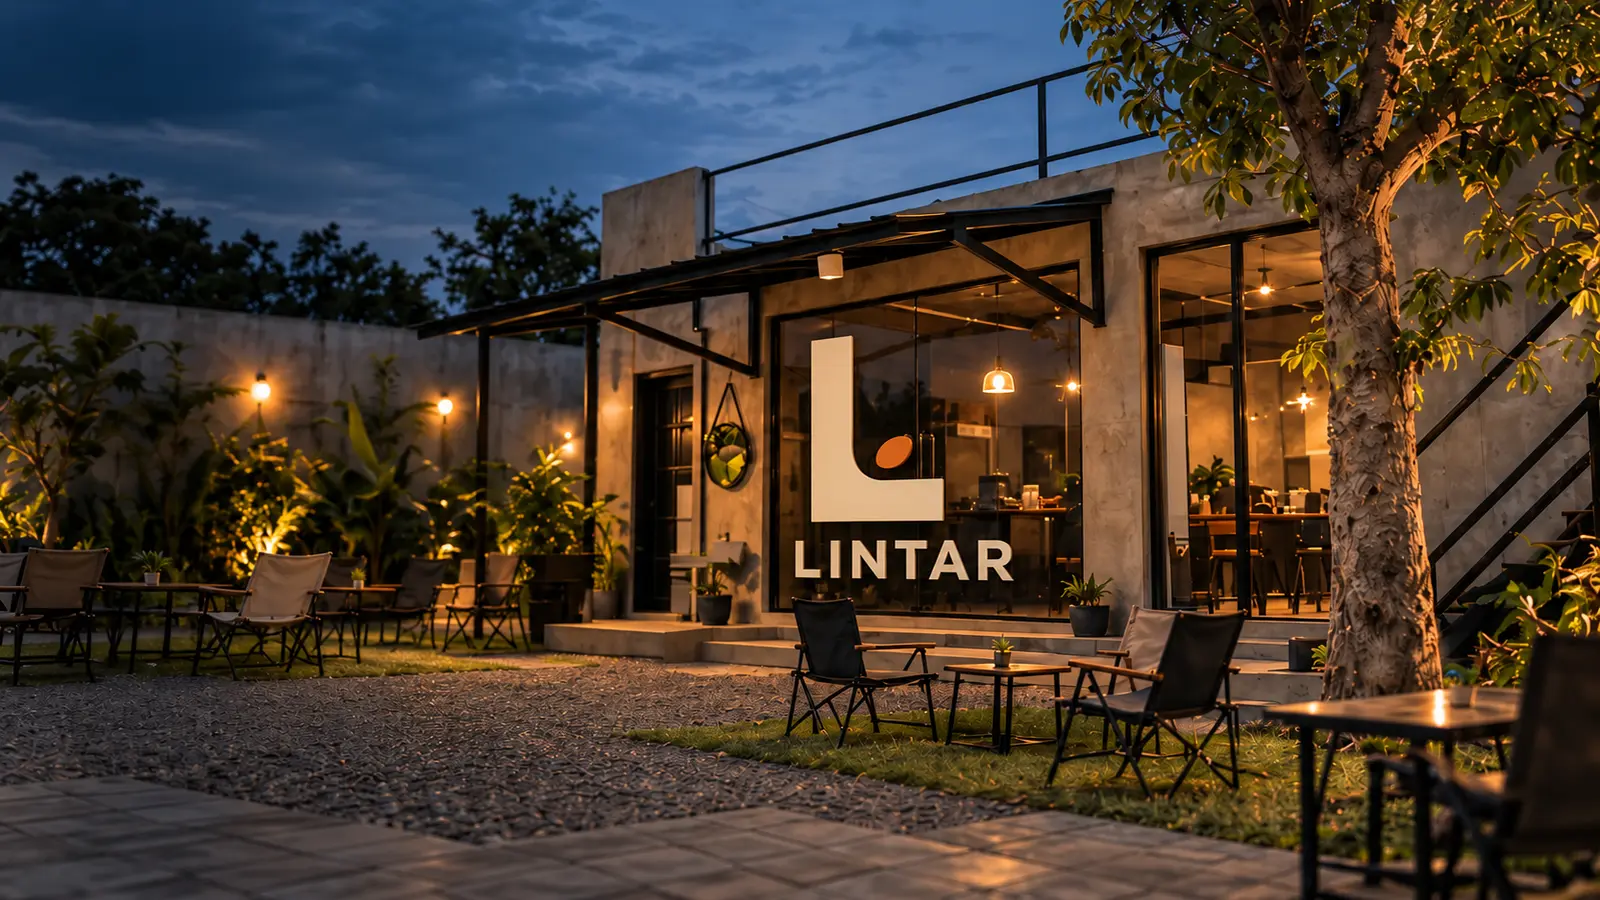
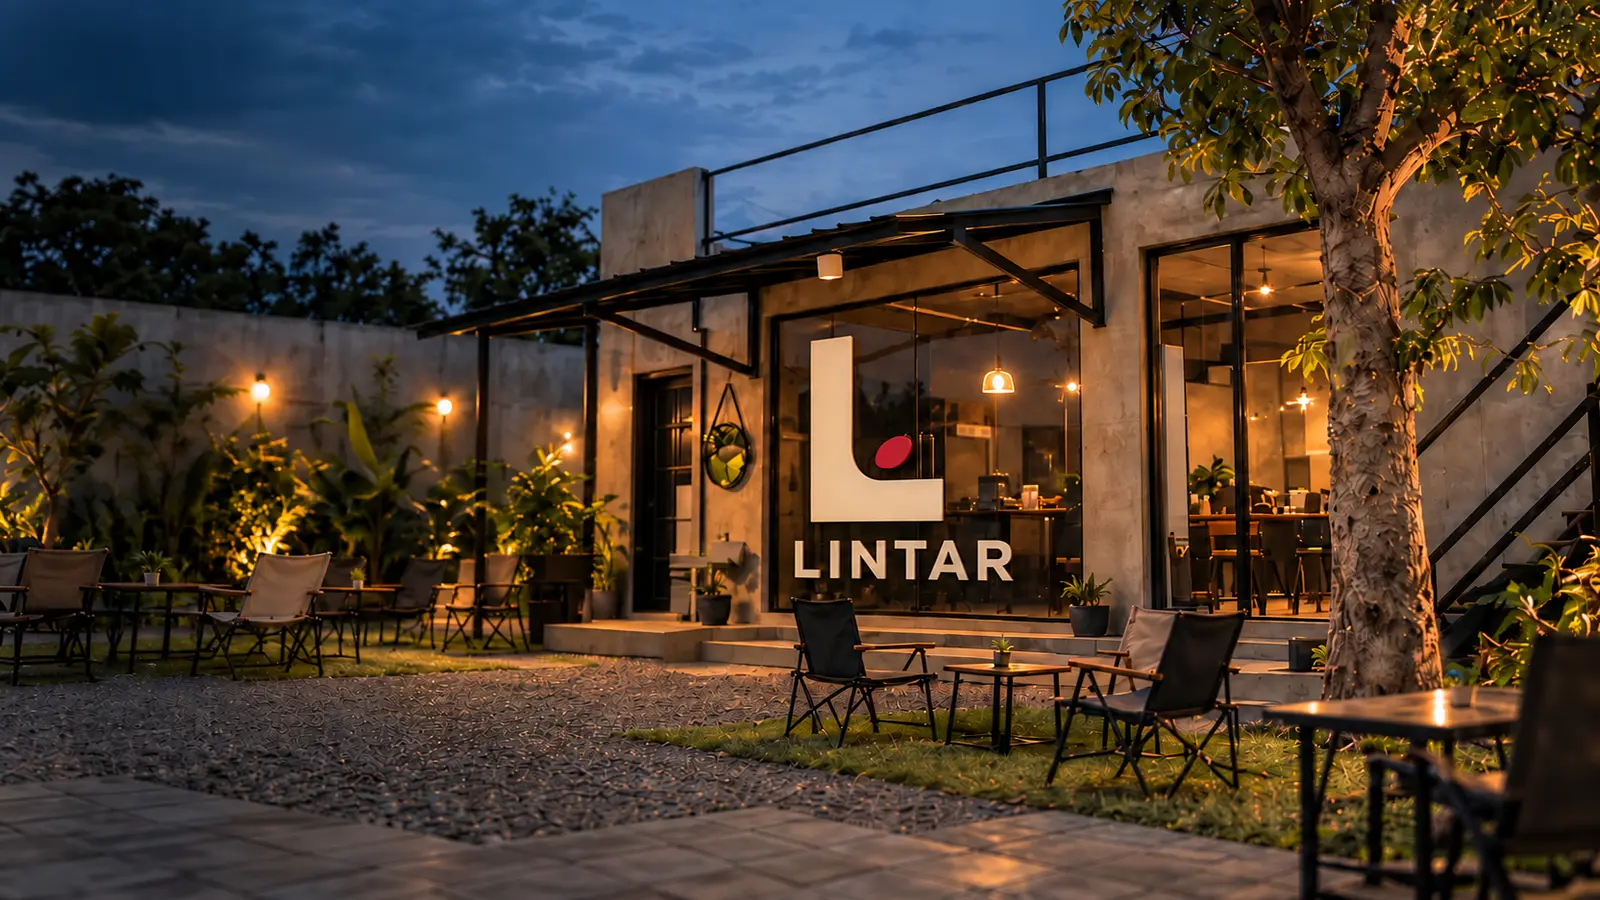
Switch Lintar Coffee to the cherry palette
Black #141414, off-white #F6F3EE, cherry red #B3122E replace the
espresso/terracotta colours in the site, logo, favicons and OG image.
Codex recoloured the sign bean and can labels; the single-can
thumbnails are cropped from the two-can photo because Codex left
orange on its single-can edits.

Claude-Session: https://claude.ai/code/session_015NzdFvXDNoAUGUKjrQGNr9

diff --git a/free/styles.css b/free/styles.css
@@ -1,12 +1,12 @@
 :root {
-  --ink: #1e1410;
-  --ink-2: #2c1f19;
-  --cream: #f4ece0;
-  --paper: #fbf7f0;
-  --clay: #c65a2e;
-  --clay-deep: #a8461f;
-  --muted: #6e5d52;
-  --line: rgba(30, 20, 16, 0.14);
+  --ink: #141414;
+  --ink-2: #222222;
+  --cream: #F6F3EE;
+  --paper: #faf8f5;
+  --clay: #B3122E;
+  --clay-deep: #8e0c22;
+  --muted: #5f5a55;
+  --line: rgba(20,20,20, 0.14);
   --display: "Bricolage Grotesque", system-ui, sans-serif;
   --serif: "Instrument Serif", Georgia, serif;
   --ease: cubic-bezier(0.22, 1, 0.36, 1);
@@ -53,8 +53,8 @@ p { margin: 0; }
   transition: transform 0.3s var(--ease), background-color 0.3s, color 0.3s, box-shadow 0.3s;
 }
 .btn-accent { background: var(--clay); color: #fff; }
-.btn-accent:hover { background: var(--clay-deep); box-shadow: 0 10px 30px -10px rgba(198, 90, 46, 0.7); }
-.btn-ghost { border: 1.5px solid rgba(244, 236, 224, 0.6); color: var(--cream); }
+.btn-accent:hover { background: var(--clay-deep); box-shadow: 0 10px 30px -10px rgba(179,18,46, 0.7); }
+.btn-ghost { border: 1.5px solid rgba(246,243,238, 0.6); color: var(--cream); }
 .btn-ghost:hover { background: var(--cream); color: var(--ink); }
 .btn-small { min-height: 44px; padding: 0.5rem 1.15rem; font-size: 0.95rem; }
 .btn-big { font-size: clamp(1.05rem, 2.6vw, 1.35rem); padding: 1.1rem 2.2rem; }
@@ -64,7 +64,7 @@ p { margin: 0; }
   position: sticky; top: 0; z-index: 50;
   display: flex; align-items: center; gap: 1.5rem;
   padding: 0.7rem var(--pad);
-  background: rgba(251, 247, 240, 0.86);
+  background: rgba(250, 248, 245, 0.86);
   backdrop-filter: blur(12px); -webkit-backdrop-filter: blur(12px);
   border-bottom: 1px solid transparent;
   transition: transform 0.45s var(--ease), border-color 0.3s;
@@ -94,21 +94,21 @@ p { margin: 0; }
 .hero-media img { width: 100%; height: 100%; object-fit: cover; object-position: 60% center; transform: scale(1.12); animation: heroZoom 2.4s var(--ease) forwards; }
 .hero::after {
   content: ""; position: absolute; inset: 0; z-index: -1;
-  background: linear-gradient(180deg, rgba(30,20,16,0.15) 0%, rgba(30,20,16,0.1) 35%, rgba(30,20,16,0.88) 100%),
-              linear-gradient(90deg, rgba(30,20,16,0.55), transparent 65%);
+  background: linear-gradient(180deg, rgba(20,20,20,0.15) 0%, rgba(20,20,20,0.1) 35%, rgba(20,20,20,0.88) 100%),
+              linear-gradient(90deg, rgba(20,20,20,0.55), transparent 65%);
 }
 @keyframes heroZoom { to { transform: scale(1); } }
 .hero-inner { width: 100%; max-width: var(--max); margin: 0 auto; padding: 6rem var(--pad) clamp(3.5rem, 9vh, 6rem); }
-.hero .eyebrow { color: #f0a37f; }
+.hero .eyebrow { color: #f0566b; }
 .hero-title { font-size: clamp(3.3rem, 8.4vw, 6.4rem); line-height: 0.92; letter-spacing: -0.04em; margin-bottom: 1.4rem; }
 .hero-title .line { display: block; overflow: hidden; padding-bottom: 0.06em; }
 .hero-title .line > span { display: inline-block; }
-.hero-title em { color: #f0a37f; }
-.hero-lead { max-width: 34ch; font-size: clamp(1.05rem, 2vw, 1.3rem); color: rgba(244, 236, 224, 0.9); margin-bottom: 2rem; }
+.hero-title em { color: #f0566b; }
+.hero-lead { max-width: 34ch; font-size: clamp(1.05rem, 2vw, 1.3rem); color: rgba(246,243,238, 0.9); margin-bottom: 2rem; }
 .hero-actions { display: flex; flex-wrap: wrap; gap: 0.8rem; }
 .scroll-cue {
   position: absolute; left: 50%; margin-left: -14px; bottom: 2rem; width: 28px; height: 46px;
-  border: 1.5px solid rgba(244,236,224,0.6); border-radius: 20px;
+  border: 1.5px solid rgba(246,243,238,0.6); border-radius: 20px;
 }
 .scroll-cue span { position: absolute; left: 50%; top: 9px; width: 4px; height: 8px; margin-left: -2px; border-radius: 2px; background: var(--cream); animation: cue 1.8s var(--ease) infinite; }
 @keyframes cue { 0% { opacity: 0; transform: translateY(0); } 30% { opacity: 1; } 100% { opacity: 0; transform: translateY(16px); } }
@@ -118,10 +118,10 @@ p { margin: 0; }
 @keyframes lineUp { to { transform: none; } }
 
 /* Marquee */
-.marquee { background: var(--ink); color: var(--cream); overflow: hidden; padding: 1.1rem 0; border-top: 1px solid rgba(244,236,224,0.08); }
+.marquee { background: var(--ink); color: var(--cream); overflow: hidden; padding: 1.1rem 0; border-top: 1px solid rgba(246,243,238,0.08); }
 .marquee-track { display: flex; width: max-content; gap: 2rem; align-items: center; animation: marquee 38s linear infinite; }
 .marquee-track span { font-size: clamp(1.4rem, 3.4vw, 2.4rem); font-weight: 800; letter-spacing: -0.02em; white-space: nowrap; }
-.marquee-track span:nth-of-type(even) { font-family: var(--serif); font-style: italic; font-weight: 400; color: #f0a37f; }
+.marquee-track span:nth-of-type(even) { font-family: var(--serif); font-style: italic; font-weight: 400; color: #f0566b; }
 .marquee-track i { color: var(--clay); font-style: normal; }
 @keyframes marquee { to { transform: translateX(-50%); } }
 
@@ -139,7 +139,7 @@ p { margin: 0; }
   padding: 0.75rem; border: 1px solid var(--line); border-radius: 14px; background: #fff;
   transition: transform 0.4s var(--ease), box-shadow 0.4s var(--ease);
 }
-.sig-item:hover { transform: translateY(-4px); box-shadow: 0 18px 40px -22px rgba(30,20,16,0.45); }
+.sig-item:hover { transform: translateY(-4px); box-shadow: 0 18px 40px -22px rgba(20,20,20,0.45); }
 .sig-item img { width: 96px; height: 96px; object-fit: cover; border-radius: 10px; }
 .sig-item h3 { font-size: 1.2rem; letter-spacing: -0.01em; }
 .sig-item p { color: var(--muted); font-size: 0.95rem; }
@@ -173,7 +173,7 @@ p { margin: 0; }
 }
 .menu-list li:hover { padding-left: 0.5rem; color: var(--clay-deep); }
 .item-name { font-weight: 600; }
-.dots { flex: 1; border-bottom: 1.5px dotted rgba(30,20,16,0.25); transform: translateY(-4px); min-width: 1rem; }
+.dots { flex: 1; border-bottom: 1.5px dotted rgba(20,20,20,0.25); transform: translateY(-4px); min-width: 1rem; }
 .item-price { font-weight: 800; font-variant-numeric: tabular-nums; white-space: nowrap; }
 .menu-panel.is-entering .menu-list li { animation: itemIn 0.5s var(--ease) both; animation-delay: calc(var(--i, 0) * 18ms); }
 @keyframes itemIn { from { opacity: 0; transform: translateY(10px); } }
@@ -195,11 +195,11 @@ p { margin: 0; }
   display: grid; grid-template-columns: 1fr 1fr; gap: clamp(2rem, 6vw, 6rem); align-items: center;
 }
 .about-copy { max-width: 560px; margin-left: auto; }
-.about .eyebrow { color: #f0a37f; }
+.about .eyebrow { color: #f0566b; }
 .big-statement { font-size: clamp(2rem, 4.6vw, 3.8rem); margin-bottom: 1.6rem; }
 .big-statement .w { opacity: 0.18; transition: opacity 0.5s; }
 .big-statement .w.on { opacity: 1; }
-.about-copy p { color: rgba(244,236,224,0.78); max-width: 46ch; }
+.about-copy p { color: rgba(246,243,238,0.78); max-width: 46ch; }
 .about-photos { position: relative; height: clamp(420px, 48vw, 620px); max-width: 620px; }
 .ph { position: absolute; margin: 0; border-radius: 18px; overflow: hidden; box-shadow: 0 30px 60px -30px rgba(0,0,0,0.7); }
 .ph img { width: 100%; height: 100%; object-fit: cover; }
@@ -230,11 +230,11 @@ p { margin: 0; }
 .contact-list div { border-top: 1.5px solid rgba(255,255,255,0.4); padding-top: 0.9rem; }
 .contact-list dt { font-size: 0.78rem; letter-spacing: 0.16em; text-transform: uppercase; opacity: 0.8; margin-bottom: 0.3rem; }
 .contact-list dd { margin: 0; font-weight: 600; }
-.tag { display: inline-block; font-size: 0.78rem; font-weight: 600; background: rgba(30,20,16,0.18); padding: 0.15rem 0.55rem; border-radius: 6px; margin-top: 0.25rem; }
+.tag { display: inline-block; font-size: 0.78rem; font-weight: 600; background: rgba(20,20,20,0.18); padding: 0.15rem 0.55rem; border-radius: 6px; margin-top: 0.25rem; }
 
 /* Footer */
 .site-footer {
-  background: var(--ink); color: rgba(244,236,224,0.75); padding: 2.5rem var(--pad) 6rem;
+  background: var(--ink); color: rgba(246,243,238,0.75); padding: 2.5rem var(--pad) 6rem;
   display: flex; flex-wrap: wrap; gap: 1rem 2rem; align-items: center; justify-content: space-between; font-size: 0.95rem;
 }
 .site-footer img { width: 180px; height: auto; }
@@ -293,7 +293,7 @@ p { margin: 0; }
   .hero { min-height: 0; }
   .hero-media { inset: -8vh 0 auto 0; height: 70vh; }
   .hero-media img { object-position: 52% center; }
-  .hero::after { background: linear-gradient(180deg, rgba(30,20,16,0.1) 0%, rgba(30,20,16,0) 30%, rgba(30,20,16,0.85) 52vh, var(--ink) 62vh); }
+  .hero::after { background: linear-gradient(180deg, rgba(20,20,20,0.1) 0%, rgba(20,20,20,0) 30%, rgba(20,20,20,0.85) 52vh, var(--ink) 62vh); }
   .hero-inner { padding-top: 52vh; }
   .btn { width: 100%; }
   .header-cta, .btn-small { width: auto; }

diff --git a/free/index.html b/free/index.html
@@ -6,7 +6,7 @@
   <title>Lintar Coffee | Kopi Enak, Harga Teman (Situs Demo)</title>
   <meta name="description" content="Lintar Coffee: kopi susu, minuman, makanan dan camilan mulai Rp8rb. Lihat menu lengkap dan pesan lewat WhatsApp. Situs demo.">
   <meta name="robots" content="noindex, nofollow">
-  <meta name="theme-color" content="#1E1410">
+  <meta name="theme-color" content="#141414">
   <meta property="og:type" content="website">
   <meta property="og:locale" content="id_ID">
   <meta property="og:site_name" content="Lintar Coffee">

diff --git a/src/index.template.html b/src/index.template.html
@@ -6,7 +6,7 @@
   <title>Lintar Coffee | Kopi Enak, Harga Teman (Situs Demo)</title>
   <meta name="description" content="Lintar Coffee: kopi susu, minuman, makanan dan camilan mulai Rp8rb. Lihat menu lengkap dan pesan lewat WhatsApp. Situs demo.">
   <meta name="robots" content="noindex, nofollow">
-  <meta name="theme-color" content="#1E1410">
+  <meta name="theme-color" content="#141414">
   <meta property="og:type" content="website">
   <meta property="og:locale" content="id_ID">
   <meta property="og:site_name" content="Lintar Coffee">
